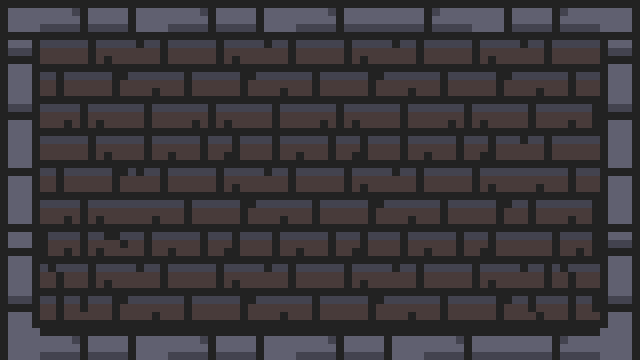
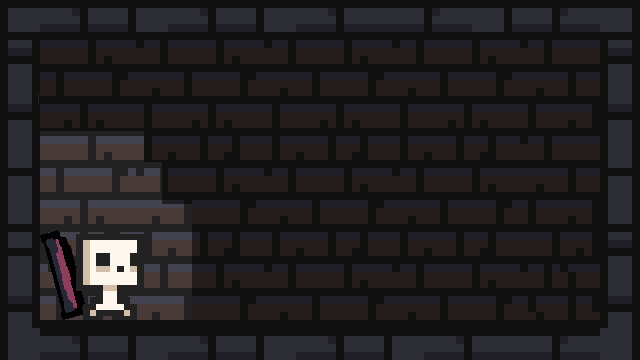
Change: Wall texture, Paddle Texture, Background Texture, Buttons Texture

diff --git a/graphics.cpp b/graphics.cpp
@@ -125,9 +125,9 @@ void button_action(bool action, enum game_state state)
 void draw_button_quit()
 {
     int buttonFrame = 0;
-    int frameWidth  = 800;
-    int frameHeight = 240;
-    Rectangle btnBounds = {900, 400, 200, 60};
+    int frameWidth  = 512;
+    int frameHeight = 288;
+    Rectangle btnBounds = {850, 450, 150, 80};
     Vector2 mousePoint = GetMousePosition();
     bool btnAction = false;
 
@@ -144,7 +144,7 @@ void draw_button_quit()
     {
         buttonFrame = 0;
     }
-    animate_texture(quit_button_sprite, buttonFrame, 900, 400, 200, 60, frameWidth, frameHeight);
+    animate_texture(quit_button_sprite, buttonFrame, 850, 400, 150, 80, frameWidth, frameHeight);
     if (btnAction) {
         CloseWindow();
         unload_sounds();
@@ -158,9 +158,9 @@ void draw_button_start()
 {
 
     int buttonFrame = 0;
-    int frameWidth  = 800;
-    int frameHeight = 240;
-    Rectangle btnBounds = {900, 300, 200, 60};
+    int frameWidth  = 512;
+    int frameHeight = 288;
+    Rectangle btnBounds = {850, 300, 150, 80};
     Vector2 mousePoint = GetMousePosition();
     bool btnAction = false;
 
@@ -177,9 +177,14 @@ void draw_button_start()
     {
         buttonFrame = 0;
     }
-    animate_texture(button_sprite, buttonFrame, 900, 300, 200, 60, frameWidth, frameHeight);
+    animate_texture(button_sprite, buttonFrame, 850, 300, 150, 80, frameWidth, frameHeight);
     button_action(btnAction, in_game_state);
 
+}
+
+void draw_title()
+{
+    DrawTexturePro(logo_texture, {0, 0, 64, 16}, {650, 150, 400, 100}, {0, 0}, 0, RAYWHITE);
 }
 
 void draw_menu()
@@ -195,16 +200,7 @@ void draw_menu()
     WHITE);
 
 
-
-    const Text game_title = {
-        "Breakout",
-        { 0.50f, 0.30f },
-        200.0f,
-        RED,
-        4.0f,
-        &menu_font
-    };
-    draw_text(game_title);
+    draw_title();
     draw_button_start();
     draw_button_quit();
 }
@@ -269,12 +265,12 @@ void draw_paddle()
 {
     const float texture_x_pos = shift_to_center.x + paddle_pos.x * cell_size;
     const float texture_y_pos = shift_to_center.y + paddle_pos.y * cell_size;
-    int frameWidth  = 48;
-    int frameHeight = 64;
+    int frameWidth  = 32;
+    int frameHeight = 32;
     if (IsKeyDown(KEY_A) || IsKeyDown(KEY_D) || IsKeyDown(KEY_LEFT) || IsKeyDown(KEY_RIGHT))
     {
         paddleFrame++;
-        if (paddleFrame > 12) {
+        if (paddleFrame > 10) {
             paddleFrame = 1;
         }
     }

diff --git a/assets.cpp b/assets.cpp
@@ -14,14 +14,15 @@ void unload_fonts()
 
 void load_textures()
 {
-    wall_texture = LoadTexture("data/images/block.png");
+    wall_texture = LoadTexture("data/images/wall.png");
     void_texture = LoadTexture("data/images/void.png");
-    block_texture = LoadTexture("data/images/wall.png");
-    paddle_texture = load_sprite("data/images/skeleton/skeleton", ".png", 13, true, 1);
+    block_texture = LoadTexture("data/images/block.png");
+    paddle_texture = load_sprite("data/images/skeleton/skeli", ".png", 11, true, 1);
     button_sprite = load_sprite("data/images/start/start", ".png", 3, true, 1);
     ball_sprite = LoadTexture("data/images/ball0.png");
     background_texture = LoadTexture("data/images/background2.png");
     background_of_level_texture = LoadTexture("data/images/background3.png");
+    logo_texture = LoadTexture("data/images/logo/logo0.png");
     quit_button_sprite = load_sprite("data/images/quit/quit", ".png", 3, true, 1);
 }
 
@@ -36,6 +37,7 @@ void unload_textures()
     unload_sprite(quit_button_sprite);
     UnloadTexture(background_texture);
     UnloadTexture(background_of_level_texture);
+    UnloadTexture(logo_texture);
 }
 
 void load_sounds()

diff --git a/assets.h b/assets.h
@@ -13,6 +13,7 @@ inline Texture2D ball_sprite;
 inline Texture2D block_texture;
 inline Texture2D background_texture;
 inline Texture2D background_of_level_texture;
+inline Texture2D logo_texture;
 
 inline sprite quit_button_sprite;
 inline sprite paddle_texture;
